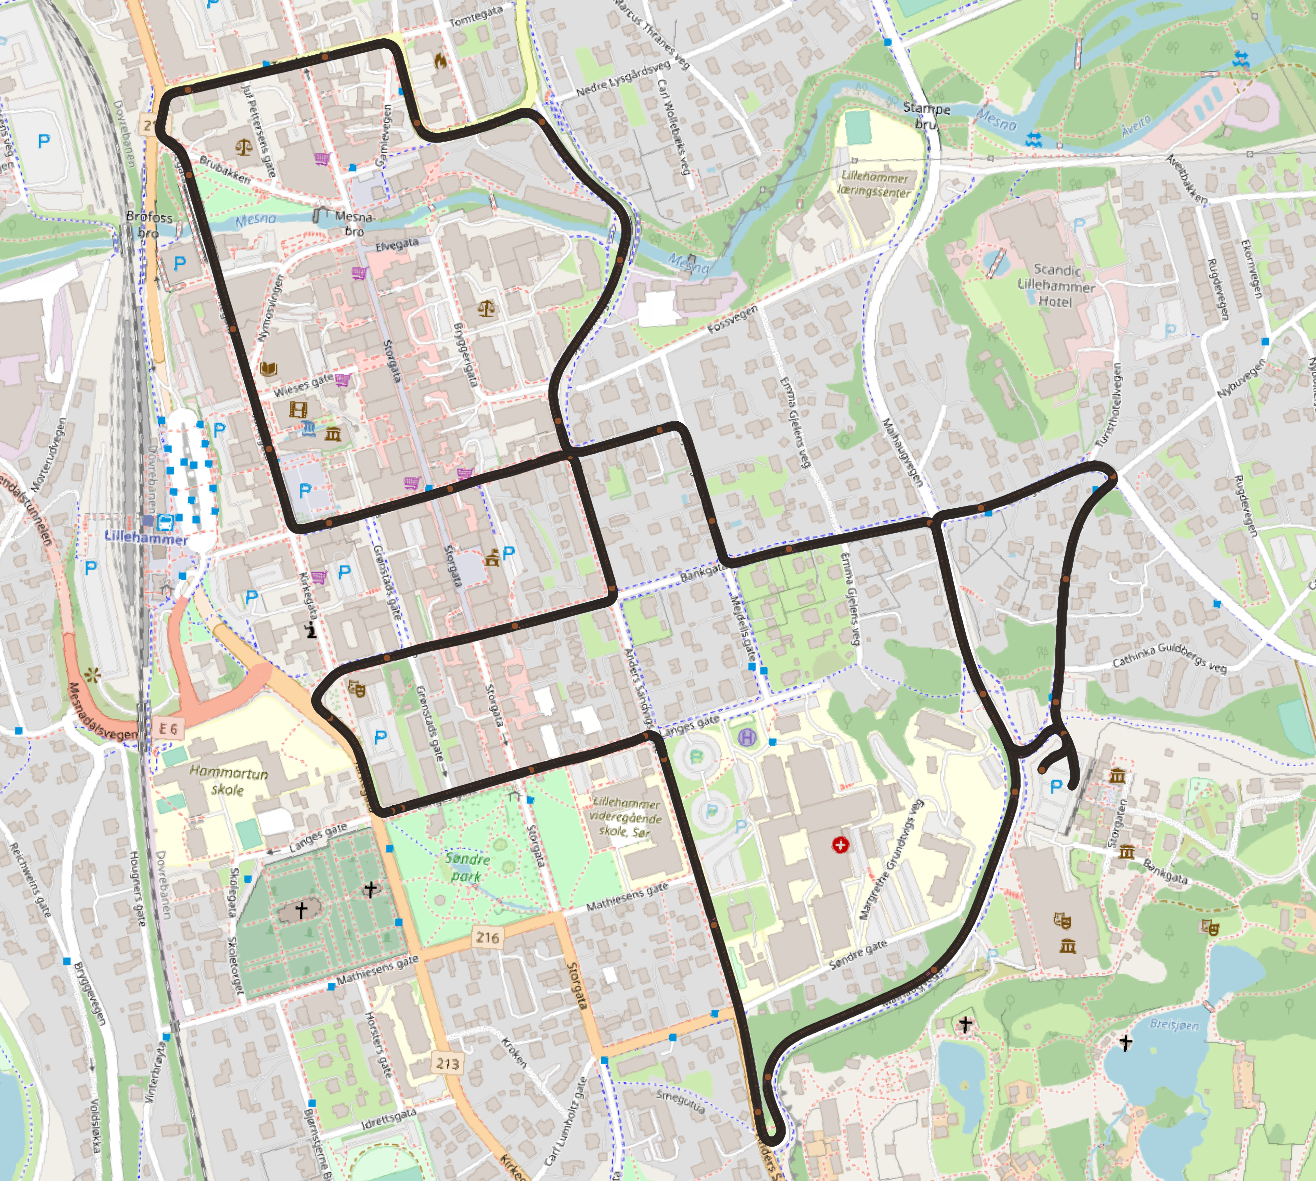
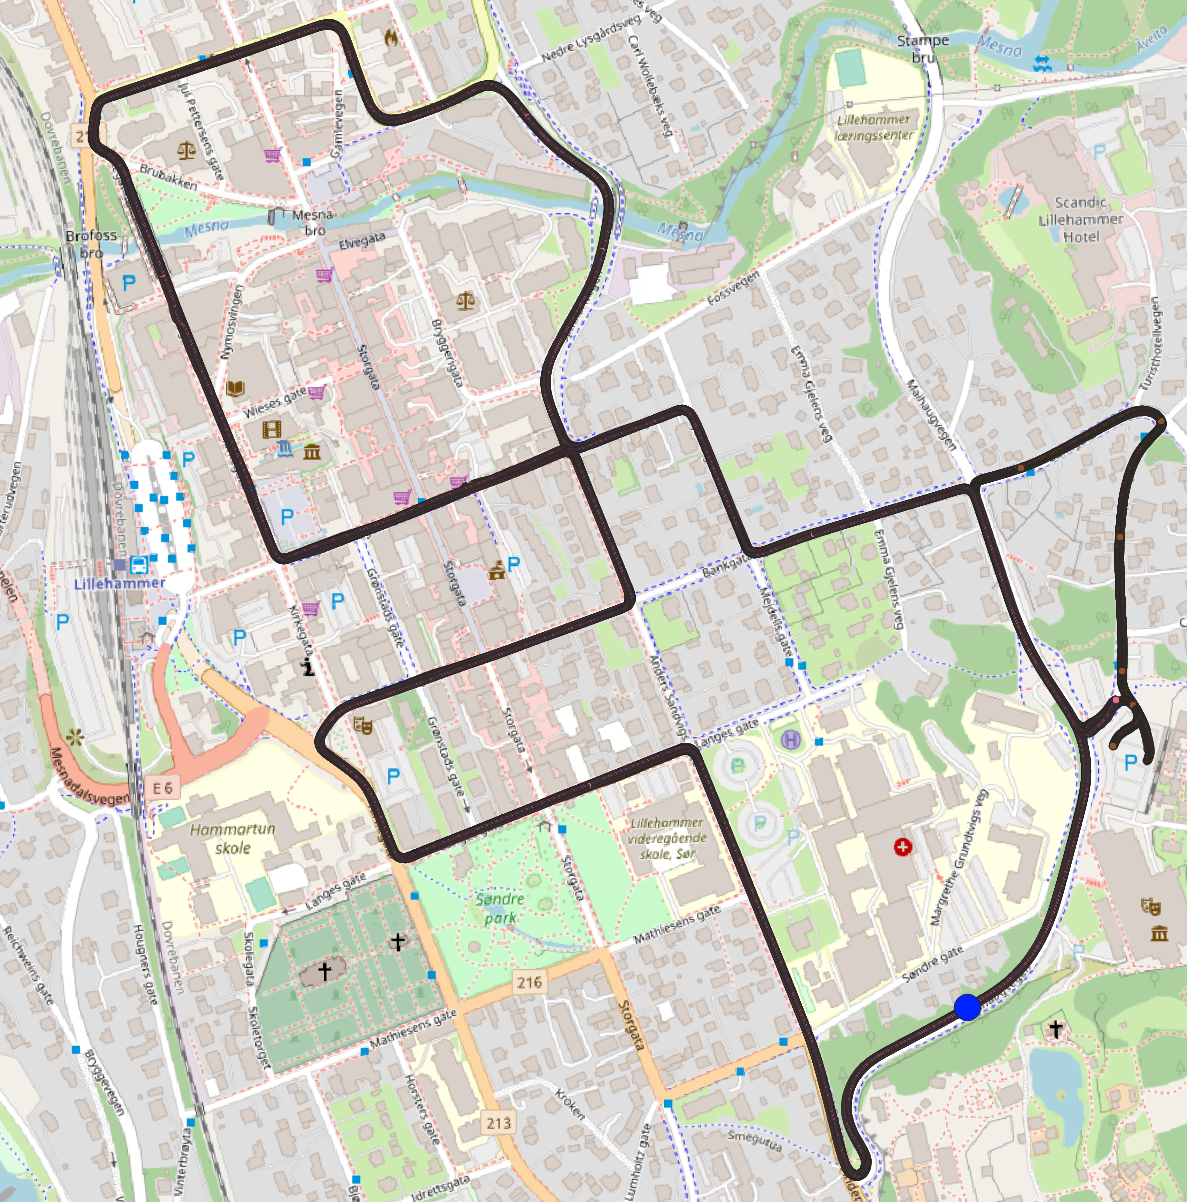
Updated documentation.

diff --git a/validation/Lillehammer/results/summary.md b/validation/Lillehammer/results/summary.md
@@ -26,6 +26,30 @@
 
 ## The analysis
 
+### Method
+See [this document](./../../_notes/summary.md) for method information that is common for all four locations.
+
+The analysis was performed by processing the PCAP files for each of the collected trips, and using absolute or incremental navigation to estimate a position for each frame until navigation failure. Navigation failure is defined as when the estimated position is more than five meters from the correct position. 
+
+To make the results comparable, the trip analyses all started at the same point, which is set to after the missing PCAP file of trip 3 in 2022. This point is indicated with the blue circle on the image above. The analyses ran until failure, or until all frames were processed. In the next run, all analyses will end at before the last turn, almost straight north for the blue circle.
+
+**Common command line arguments:**
+```
+{
+	"sbet-z-offset": -39.416,
+	"preview": "always",
+	"build-cloud-after": 5,
+	"skip-until-x": 579490.13,
+	"skip-until-y": 6776060.22,
+	"recreate-caches": true,
+	"max-frame-radius": 25,
+	"wait-after-first-frame": 0,
+	"hide-point-cloud": true,
+	"save-after-first-frame": true,
+	"save-after-frames": 50
+}
+```
+
 ### Absolute navigation
 
 The absolute navigation tables show how well the navigation worked in each of the four weather situations:
@@ -39,6 +63,9 @@ The numbers in the four results column represents the results for that combinati
 - N/P: This trip has not yet been processed.
 
 _**Meters driven before failure**_
+
+All entries with ~3500 meters did complete the entire route, but because of variances in the stopping point of the data collections, the lengths vary slightly.
+
 | Trip#   | Bare/Bare | Bare/Snow | Snow/Bare | Snow/Snow |
 |---------|-----------|-----------|-----------|-----------|
 | 1     | N/A | N/A | 24.640 | 2,630.914 |
@@ -97,3 +124,4 @@ _**Registration iterations before convergence**_
 | 6     | 199.938 | 106.625 | N/A | N/A |
 | 7     | N/P | N/P | N/A | N/A |
 | **Average** | **199.955** | **142.768** | **145.222** | **78.636** |
+
